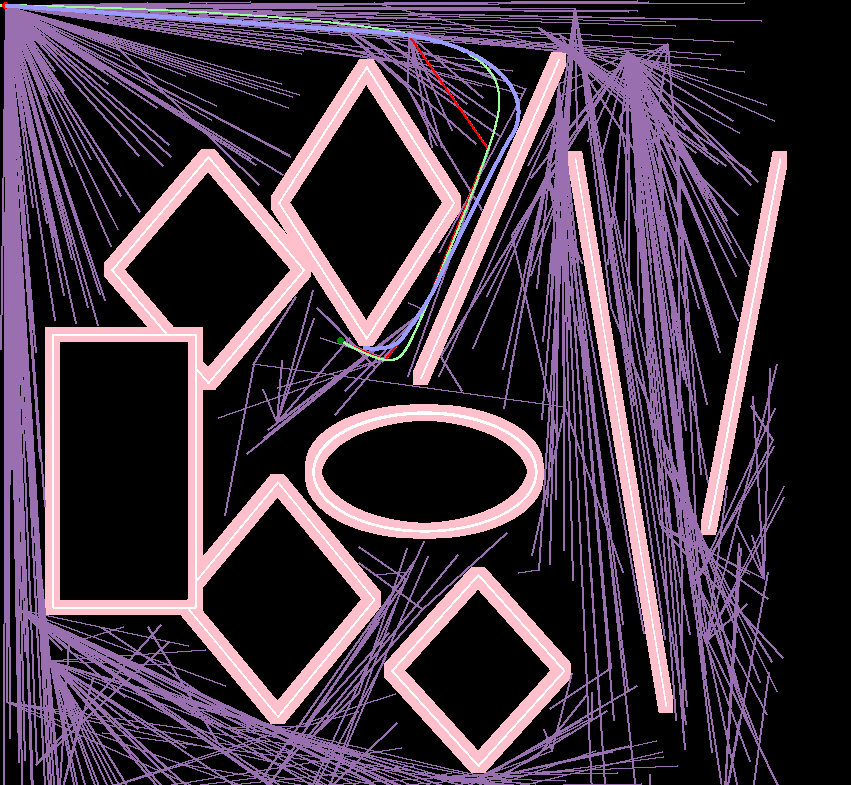
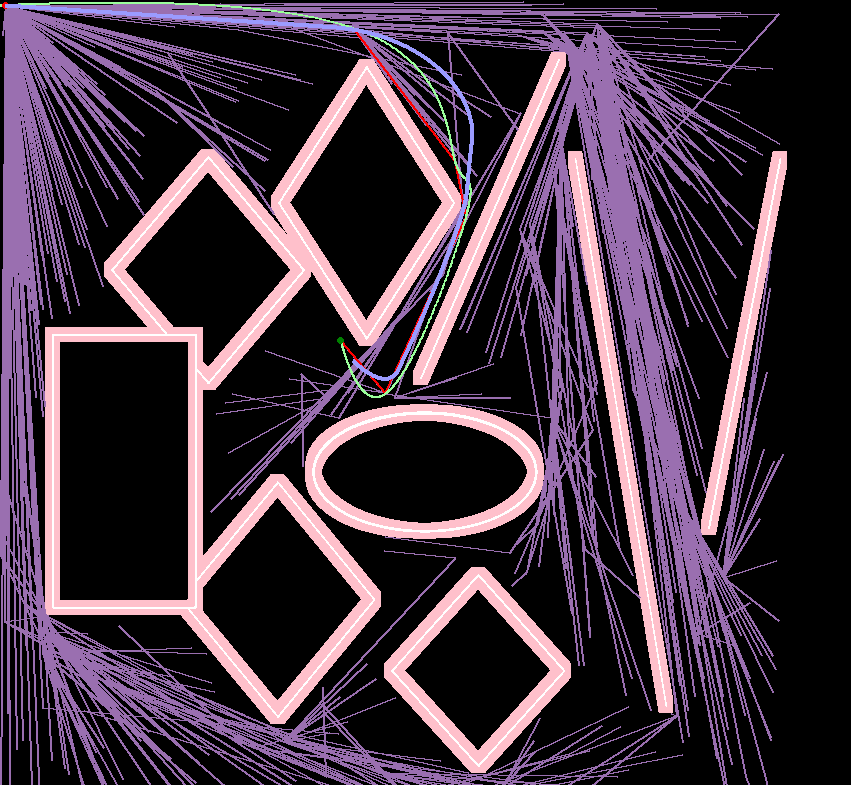
Local planner has integrated obstacle avoidance now

Changed region(s): [[0.0, 0.0, 0.9166, 1.0]]

diff --git a/utils/render.py b/utils/render.py
@@ -4,6 +4,8 @@ import config
 from type_hints.types import Grid, Edges, Path
 from utils.spline import smooth_path, convert_to_coordinates
 
+render_lines = True
+
 white = (255, 255, 255, 255)
 black = (0, 0, 0, 255)
 red = (255, 0, 0, 100)
@@ -96,8 +98,9 @@ def grid_to_image(grid: Grid, edges: Edges, output_path: str):
             if grid[x][y] == 4:
                 end = (x, y)
 
-    for start_node, end_node in edges:
-        draw.line([start_node, end_node], fill=purple, width=2)  # Change fill and width as needed
+    if render_lines:
+        for start_node, end_node in edges:
+            draw.line([start_node, end_node], fill=purple, width=2)  # Change fill and width as needed
 
     box = (start[0] - 3, start[1] - 3, start[0] + 3, start[1] + 3)
     draw.ellipse(box, outline="red", width=3)
@@ -140,22 +143,23 @@ def render_path(grid: Grid, path: Path, edges: Edges, output_path: str):
             if grid[x][y] == 4:
                 end = (x, y)
 
-    for start_node, end_node in edges:
-        draw.line([start_node, end_node], fill=purple, width=2)  # Change fill and width as needed
+    if render_lines:
+        for start_node, end_node in edges:
+            draw.line([start_node, end_node], fill=purple, width=2)  # Change fill and width as needed
 
-    waypoints = []
+        waypoints = []
 
-    current = end
-    while current != start:
-        draw.line([current, path[current]], fill=(255, 0, 0, 255), width=2)
-        current = path[current]
-        waypoints.append(list(current))
+        current = end
+        while current != start:
+            draw.line([current, path[current]], fill=(255, 0, 0, 255), width=2)
+            current = path[current]
+            waypoints.append(list(current))
 
-    smoothed_path = [(round(x[0]), round(x[1])) for x in convert_to_coordinates(smooth_path(list(
-        end), list(start), waypoints))]
+        smoothed_path = [(round(x[0]), round(x[1])) for x in convert_to_coordinates(smooth_path(list(
+            end), list(start), waypoints))]
 
-    for coord in range(len(smoothed_path[:-1])):
-        draw.line([smoothed_path[coord], smoothed_path[coord + 1]], fill=green, width=2)
+        for coord in range(len(smoothed_path[:-1])):
+            draw.line([smoothed_path[coord], smoothed_path[coord + 1]], fill=green, width=2)
 
     box = (start[0] - 3, start[1] - 3, start[0] + 3, start[1] + 3)
     draw.ellipse(box, outline="red", width=3)
@@ -197,20 +201,21 @@ def render_dict_path(grid: Grid, path, edges, output_path: str):
             if grid[x][y] == 4:
                 end = (x, y)
 
-    for start_node, end_node in edges:
-        draw.line([start_node, end_node], fill=purple, width=2)  # Change fill and width as needed
+    if render_lines:
+        for start_node, end_node in edges:
+            draw.line([start_node, end_node], fill=purple, width=2)  # Change fill and width as needed
 
-    waypoints = []
+        waypoints = []
 
-    for current, parent_node in path:
-        draw.line([current, parent_node], fill=(255, 0, 0, 255), width=2)
-        waypoints.append(list(current))
+        for current, parent_node in path:
+            draw.line([current, parent_node], fill=(255, 0, 0, 255), width=2)
+            waypoints.append(list(current))
 
-    smoothed_path = [(round(x[0]), round(x[1])) for x in convert_to_coordinates(smooth_path(list(
-        end), list(start), waypoints))]
+        smoothed_path = [(round(x[0]), round(x[1])) for x in convert_to_coordinates(smooth_path(list(
+            end), list(start), waypoints))]
 
-    for coord in range(len(smoothed_path) - 1):
-        draw.line([smoothed_path[coord], smoothed_path[coord + 1]], fill=green, width=2)
+        for coord in range(len(smoothed_path) - 1):
+            draw.line([smoothed_path[coord], smoothed_path[coord + 1]], fill=green, width=2)
 
     box = (start[0] - 3, start[1] - 3, start[0] + 3, start[1] + 3)
     draw.ellipse(box, outline="red", width=3)

diff --git a/main.py b/main.py
@@ -2,6 +2,7 @@ import time
 
 import pygame
 
+from local_sim.obstacle import Obstacle
 from local_sim.path import LocalPlanner
 from global_sim.algorithm import rrt_sid, rrt_star
 from type_hints.types import Grid
@@ -43,10 +44,20 @@ render_local_path_on_image([], config.out_path, 'test.png')
 total_dist = (target_waypoint[0] - current_position[0]) ** 2 + (target_waypoint[1] -
                                                                 current_position[1]) ** 2
 
+obstacles = []
+search_radius = 10
+
+# Search in area near waypoints for obstacles
+for i in range(-search_radius, search_radius, 3):
+    for j in range(-search_radius, search_radius):
+        if 0 <= current_position[0] + i < len(grid) and 0 <= current_position[1] + j < len(grid[0]):
+            if grid[current_position[0] + i][current_position[1] + j] == 1:
+                obstacles.append(Obstacle(current_position[0] + i, current_position[1] + j, .5))
+
 while (current_position[0], current_position[1]) != (global_path[-1][0], global_path[-1][1]):
     local_planner = LocalPlanner(.05, .25)
 
-    solution, state, u = local_planner.find_path(current_position, target_waypoint, total_dist, [])
+    solution, state, u = local_planner.find_path(current_position, target_waypoint, total_dist, obstacles)
     path = local_planner.get_path_coords(solution, state)
     current_position = path[-1]
 
@@ -65,32 +76,3 @@ while (current_position[0], current_position[1]) != (global_path[-1][0], global_
         imp = pygame.image.load('test.png').convert()
         screen.blit(imp, (0, 0))
         pygame.display.flip()
-
-# for i in range(len(global_path)):
-#     global_path[i] = (global_path[i][0], global_path[i][1], 0, 0)
-#
-# global_path = waypoints_gen(global_path, 40)
-#
-# local_planner = LocalPlanner(.01, .25)
-# local_path = []
-#
-# render_local_path_on_image([], config.out_path, 'test.png')
-#
-# for i in range(len(global_path) - 1):
-#     local_planner = LocalPlanner(.05, .25)
-#     solution, state, u = local_planner.find_path(global_path[i], global_path[i + 1], [])
-#     path = local_planner.get_path_coords(solution, state)
-#     global_path[i+1] = path[-1]
-#     local_path.extend(path)
-#
-#     render_local_path_on_image(local_path, config.out_path, 'test.png')
-#     if config.debug:
-#         imp = pygame.image.load('test.png').convert()
-#         screen.blit(imp, (0, 0))
-#         pygame.display.flip()
-#
-# print("Finished in:")
-# print(f"{time.time() - start_time} seconds.")
-#
-# if config.debug:
-#     x = input()
